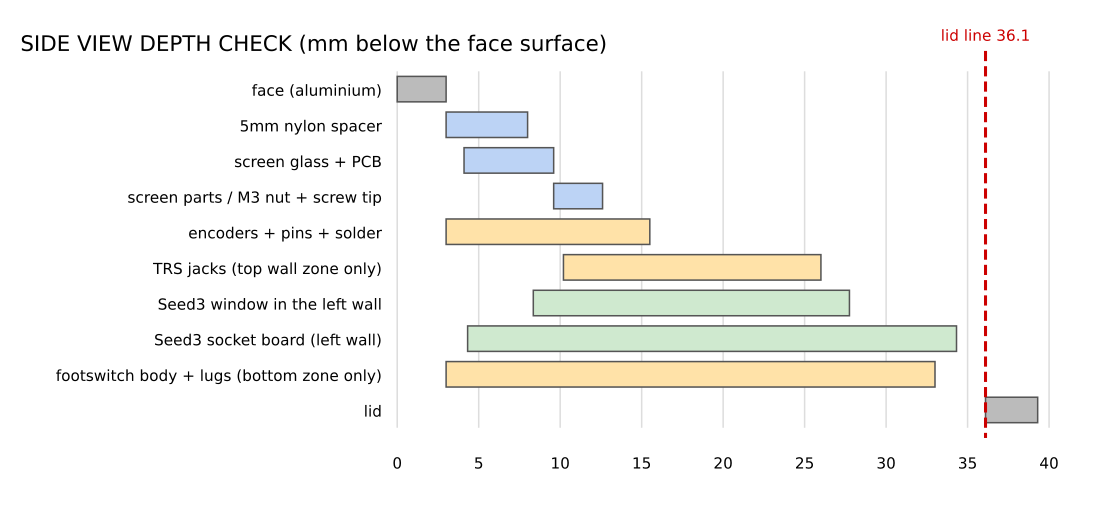
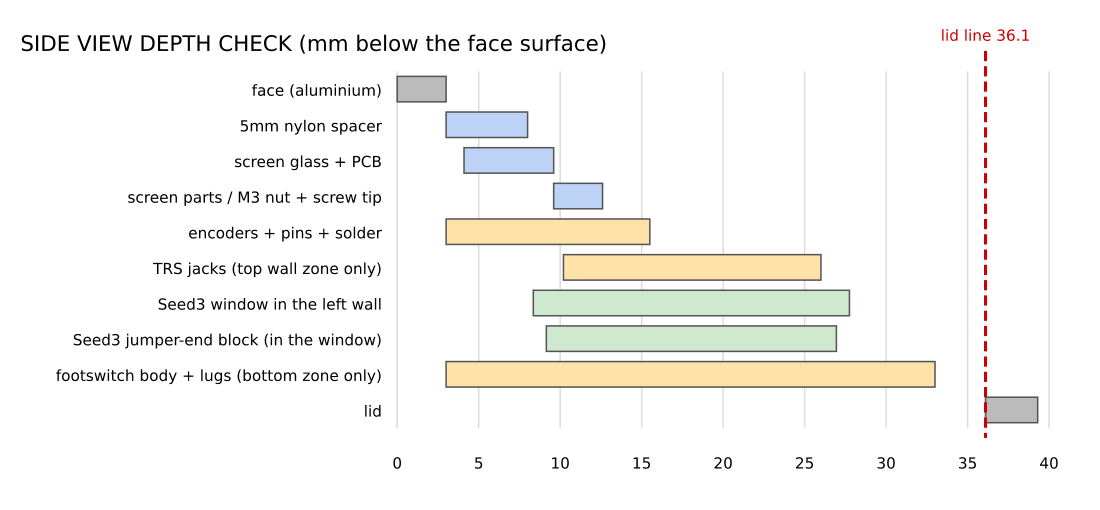
Seed3 socket way 1 in the drawings and 3D model; block is built on the table

Changed region(s): [[0.7418, 0.6176, 0.8964, 0.7059], [0.0618, 0.6471, 0.34, 0.6765], [0.4018, 0.6176, 0.4945, 0.7059]]

diff --git a/_Tools/pg_generate.py b/_Tools/pg_generate.py
@@ -76,13 +76,15 @@ SOCK_OFF = 1.27                        # its centre sits this much toward the li
 SOCK_COLS, SOCK_ROWS = 24, 10          # its hole grid
 
 
+JMP_L = 14.0                           # a jumper wire's female end (plastic shell), long
+
+
 def seed_stack():
-    """Distances outward from the OUTSIDE face of the left wall (negative = inside the box)."""
-    board_front = -(WALL + SOCK_GAP)               # socket board's header side
-    hdr_top = board_front + HDR_H
-    pcb0 = hdr_top + 2.5                           # Seed3's pin spacer sits on the header
-    return dict(board_back=board_front - 1.6, board_front=board_front, hdr_top=hdr_top,
-                pcb0=pcb0, pcb1=pcb0 + 1.6, parts=pcb0 + 1.6 + 3.25)
+    """Distances outward from the OUTSIDE face of the left wall (negative = inside the box).
+    Socket way 1 (built now): the jumper ends, glued into a block in the window, faces level with the outside."""
+    hdr_top = 0.0
+    pcb0 = hdr_top + 2.5                           # Seed3's own black pin spacer sits on the jumper ends
+    return dict(block_back=-JMP_L, hdr_top=hdr_top, pcb0=pcb0, pcb1=pcb0 + 1.6, parts=pcb0 + 1.6 + 3.25)
 
 
 # ---------------------------------------------------------------- drawing model
@@ -526,20 +528,17 @@ def write_interior():
     st = seed_stack()
     ox = -FACE_W / 2                                    # outside of the left wall
     X = lambda d: ox - d                                # distance outward from the wall -> face x
-    y0, y1 = SEED_Y - SOCK_L / 2, SEED_Y + SOCK_L / 2   # socket board
-    p.append(f'<rect x="{X(st["board_front"])}" y="{-y1}" width="1.6" height="{y1-y0}" fill="#4f8f3a" stroke="#000" stroke-width="0.2"/>')
-    p.append(f'<rect x="{X(st["hdr_top"])}" y="{-(SEED_Y+25.4)}" width="{HDR_H}" height="50.8" fill="#222"/>')
+    p.append(f'<rect x="{X(0)}" y="{-(SEED_Y+25.4)}" width="{JMP_L}" height="50.8" fill="#222"/>')    # the glued jumper-end block
     p.append(f'<rect x="{X(st["parts"])}" y="{-(SEED_Y+25.5)}" width="{st["parts"]-st["pcb0"]}" height="51" fill="#333" stroke="#000" stroke-width="0.3"/>')
     p.append(f'<rect x="{X(st["parts"])-1.55}" y="{-(SEED_Y-25.5)}" width="3.25" height="1.6" fill="#bbb"/>')
-    for sy in SEED_SCREWS:
-        p.append(f'<rect x="{X(0)}" y="{-sy-2.75}" width="{WALL+SOCK_GAP}" height="5.5" fill="#eee" stroke="#000" stroke-width="0.2"/>')
-        p.append(f'<rect x="{X(st["board_back"])}" y="{-sy-2.75}" width="2.4" height="5.5" fill="#999"/>')
-    p.append(f'<rect x="{X(st["hdr_top"]+2.5)}" y="{-(SEED_Y+25.5)}" width="2.5" height="51" fill="#555"/>')   # Seed3 pin spacer
-    p.append(f'<rect x="{X(st["board_back"])}" y="{-(SEED_Y+25.4)}" width="14" height="50.8" fill="none" stroke="#1f9d3a" stroke-width="0.3" stroke-dasharray="1 0.8"/>')
-    for k_, (t_, c_) in enumerate([("Seed3", "#235"), ("cartridge", "#235"), ("stands on its", "#235"), ("edge in the", "#235"),
-                                   ("left wall", "#235"), ("", ""), ("green dash:", "#1f6d2a"), ("long header", "#1f6d2a"), ("legs + wires", "#1f6d2a")]):
-        if t_:
-            p.append(text(-44.6, SEED_Y + 12 - k_ * 2.5, t_, 1.8, color=c_))
+    p.append(f'<rect x="{X(st["pcb0"])}" y="{-(SEED_Y+25.5)}" width="2.5" height="51" fill="#555"/>')   # Seed3 pin spacer
+    for sy in SEED_SCREWS:                                                                               # screws + nuts closing the way-2 holes
+        p.append(f'<rect x="{X(0)}" y="{-sy-0.8}" width="{WALL+2.4}" height="1.6" fill="#888"/>')
+        p.append(f'<rect x="{X(-WALL)}" y="{-sy-2.75}" width="2.4" height="5.5" fill="#999"/>')
+    p.append(f'<rect x="{X(-JMP_L)}" y="{-(SEED_Y+25.4)}" width="10" height="50.8" fill="none" stroke="#1f9d3a" stroke-width="0.3" stroke-dasharray="1 0.8"/>')
+    for k_, (t_, c_) in enumerate([("Seed3", "#fff"), ("plugs into", "#fff"), ("40 jumper", "#fff"), ("ends, hot-", "#fff"), ("glued into", "#fff"), ("a block", "#fff")]):
+        p.append(text(X(-JMP_L / 2), SEED_Y + 8 - k_ * 2.5, t_, 1.7, color=c_))
+    p.append(text(X(-JMP_L - 5), SEED_Y + 3, "wires", 1.8, color="#1f6d2a"))
     p.append(text(X(st["parts"]) + 1, SEED_Y - 25.5 - 3.2, "USB-C", 1.9, color="#000"))
     for x, y in SCREWS:
         p.append(f'<circle cx="{x}" cy="{-y}" r="2.6" fill="#fff" stroke="#000" stroke-width="0.4"/><circle cx="{x}" cy="{-y}" r="1.5" fill="#000"/>')
@@ -551,8 +550,8 @@ def write_interior():
         p.append(f'<circle cx="{x}" cy="{-FS_Y}" r="6.6" fill="#ddd" stroke="#555" stroke-width="0.3"/>')
         p.append(text(x, FS_Y - 10, name, 2.4))
     p.append(text(0, -FACE_H / 2 - 5, "INTERIOR TOP VIEW (looking down through the face) - 1:1", 2.6))
-    p.append(text(0, -FACE_H / 2 - 9, "screen: M3x12 screw | face | 5mm spacer | screen PCB | M3 nut.   Seed3: socket board: M3x12 | wall | 5mm spacer | board | nut", 2.2))
-    p.append(text(0, -FACE_H / 2 - 13, "Seed3 pulls straight out of the left wall: keep the green dashed zone behind the socket board free for the wires", 2.2, color="#a00"))
+    p.append(text(0, -FACE_H / 2 - 9, "screen: M3x12 screw | face | 5mm spacer | screen PCB | M3 nut.   Seed3 socket: jumper ends hot-glued in the window", 2.2))
+    p.append(text(0, -FACE_H / 2 - 13, "Seed3 pulls straight out of the left wall: keep the green dashed zone free for the wires. 4 small screws only close the holes (later: way 2 board)", 2.2, color="#a00"))
     W, H = FACE_W + 32, FACE_H + 30
     open(os.path.join(d, "interior-layout.svg"), "w").write(svg_doc(W, H, "\n".join(p), (-W / 2, -FACE_H / 2 - 8, W, H), "#fff"))
 
@@ -566,7 +565,7 @@ DEPTHS = [  # item, from mm, to mm  (0 = outside of the face, 36.1 = open edge w
     ("encoders + pins + solder", 3.0, 15.5),
     ("TRS jacks (top wall zone only)", 10.2, 26.0),
     ("Seed3 window in the left wall", 18.05 - (SEED_WIN[0] + PC) / 2, 18.05 + (SEED_WIN[0] + PC) / 2),
-    ("Seed3 socket board (left wall)", 18.05 + SOCK_OFF - SOCK_W / 2, 18.05 + SOCK_OFF + SOCK_W / 2),
+    ("Seed3 jumper-end block (in the window)", 18.05 - 8.9, 18.05 + 8.9),
     ("footswitch body + lugs (bottom zone only)", 3.0, 33.0),
     ("lid", 36.1, 39.3),
 ]

diff --git a/PG-Pedal-1/10-Carla-Plugin/Source/PedalView.cpp b/PG-Pedal-1/10-Carla-Plugin/Source/PedalView.cpp
@@ -155,27 +155,32 @@ void PedalView::newOpenGLContextCreated()
     meshJackHole.upload (geo::lathe (0.034f, { { 0.0f, 0.0221f }, { 0.0f, 0.0224f } }, 32, true));
     meshDcNut.upload (geo::sweptPolygon (6, 0.075f, { { 0.0f, 0.0f }, { 0.0f, 0.022f } }, true));
     // Seed3 cartridge parts, in the wall's frame (x = 0 is the outside of the left wall, -x = further out).
-    // Stack: socket headers poke 1.2 mm out, the Seed3's pin spacer (2.5), its 1.6 mm PCB, then its parts.
+    // Socket = 2 rows of 20 jumper ends hot-glued into a block in the window, their faces level with the
+    // outside of the wall. Then the Seed3's own black pin spacer (2.5 mm), its 1.6 mm PCB and its parts.
     meshSeedWin.upload (geo::box ({ -0.0045f, -0.097f, -0.262f }, { -0.001f, 0.097f, 0.262f }));
     {
         MeshData hdr;
         for (float ry : { -0.0762f, 0.0762f })
-            hdr.append (geo::box ({ -0.037f, ry - 0.0125f, -0.254f }, { 0.0f, ry + 0.0125f, 0.254f }));
+        {
+            hdr.append (geo::box ({ -0.0015f, ry - 0.0127f, -0.254f }, { 0.0f, ry + 0.0127f, 0.254f }));    // jumper ends' faces
+            hdr.append (geo::box ({ -0.025f, ry - 0.0125f, -0.254f }, { -0.0015f, ry + 0.0125f, 0.254f }));  // Seed3 pin spacer
+        }
         meshSeedHdr.upload (hdr);
     }
-    meshSeedPcb.upload (geo::box ({ -0.053f, -0.09f, -0.255f }, { -0.037f, 0.09f, 0.255f }));
+    meshSeedGlue.upload (geo::box ({ -0.0012f, -0.0635f, -0.258f }, { 0.0f, 0.0635f, 0.258f }));
+    meshSeedPcb.upload (geo::box ({ -0.041f, -0.09f, -0.255f }, { -0.025f, 0.09f, 0.255f }));
     {
         MeshData chips;   // MCU, SDRAM, flash and codec
-        chips.append (geo::box ({ -0.068f, -0.05f, -0.06f }, { -0.053f, 0.05f, 0.04f }));
-        chips.append (geo::box ({ -0.066f, -0.045f, -0.20f }, { -0.053f, 0.045f, -0.09f }));
-        chips.append (geo::box ({ -0.064f, -0.03f, -0.245f }, { -0.053f, 0.03f, -0.21f }));
+        chips.append (geo::box ({ -0.056f, -0.05f, -0.06f }, { -0.041f, 0.05f, 0.04f }));
+        chips.append (geo::box ({ -0.054f, -0.045f, -0.20f }, { -0.041f, 0.045f, -0.09f }));
+        chips.append (geo::box ({ -0.052f, -0.03f, -0.245f }, { -0.041f, 0.03f, -0.21f }));
         meshSeedChips.upload (chips);
     }
-    meshSeedUsb.upload (geo::box ({ -0.0855f, -0.0417f, 0.042f }, { -0.053f, 0.0417f, 0.1155f }));
+    meshSeedUsb.upload (geo::box ({ -0.0735f, -0.0417f, 0.042f }, { -0.041f, 0.0417f, 0.1155f }));
     {
         MeshData btn;     // BOOT and RESET, beside the USB-C end
         for (float by : { -0.065f, 0.065f })
-            btn.append (geo::box ({ -0.068f, by - 0.017f, 0.055f }, { -0.053f, by + 0.017f, 0.095f }));
+            btn.append (geo::box ({ -0.056f, by - 0.017f, 0.055f }, { -0.041f, by + 0.017f, 0.095f }));
         meshSeedBtn.upload (btn);
     }
     meshSideScrew.upload (geo::lathe (0.026f, { { 0.0f, 0.0f }, { 0.0f, 0.016f }, { -0.004f, 0.02f } }, 24, true));
@@ -216,7 +221,7 @@ void PedalView::openGLContextClosing()
         if (p) p->release();
     for (auto* m : { &meshFace, &meshShell, &meshLid, &meshWell, &meshLcd, &meshDesk, &meshShadow, &meshNutSmall, &meshNutBig,
                      &meshThread, &meshPlunger, &meshScrew, &meshJackNut, &meshJackHole, &meshDcNut, &meshSideScrew,
-                     &meshSeedWin, &meshSeedHdr, &meshSeedPcb, &meshSeedChips, &meshSeedUsb, &meshSeedBtn })
+                     &meshSeedWin, &meshSeedHdr, &meshSeedGlue, &meshSeedPcb, &meshSeedChips, &meshSeedUsb, &meshSeedBtn })
         m->release();
     for (auto& k : knobParts)
         k->gpu.release();
@@ -338,6 +343,7 @@ void PedalView::renderOpenGL()
         for (float dy : { -0.1016f, 0.1016f })
             draw (*progPlastic, meshSideScrew, Mat4::translation ({ -W * 0.5f, jackY + dy, z }) * sideCRot, black);
     draw (*progPlastic, meshSeedHdr, seedAt, black);
+    draw (*progPlastic, meshSeedGlue, seedAt, { 0.80f, 0.79f, 0.74f });   // the hot glue between the rows
     draw (*progPlastic, meshSeedPcb, seedAt, { 0.035f, 0.04f, 0.045f });
     draw (*progPlastic, meshSeedChips, seedAt, { 0.06f, 0.06f, 0.065f });
     draw (*progPlastic, meshSeedBtn, seedAt, { 0.75f, 0.75f, 0.74f });

diff --git a/_Tools/tayda_upload.py b/_Tools/tayda_upload.py
@@ -7,7 +7,7 @@
     python3 tayda_upload.py --drill-id 12345                 # update only the drill template
 
 It creates two templates (it does NOT order or pay for anything):
-  * drill template "pg-1"      - 17 holes + 2 rectangles (screen window, Seed3 window) (from tayda-drill-holes.csv)
+  * drill template "pg-1"      - 19 holes + 2 rectangles (screen window, Seed3 window) (from tayda-drill-holes.csv)
   * UV print template "pg-1 top" - side A, colour layer only (pg1-face-uv-print.pdf)
 Then you open the dashboard, check the previews, and create the job/order yourself.
 
@@ -179,7 +179,7 @@ def main():
     uid = res["box_uv_design"]["id"]
     print(f"UV print template saved: https://drill.taydakits.com/box-uv-designs/edit?id={uid}")
     print("\nNext: open https://drill.taydakits.com/dashboard, check both previews "
-          "(the 'out' hole must be above the LEFT half of the face), then create the job/order.")
+          "(the 'in' hole must be above the LEFT half of the face), then create the job/order.")
 
 
 if __name__ == "__main__":

diff --git a/PG-Pedal-1/10-Carla-Plugin/Source/PedalView.h b/PG-Pedal-1/10-Carla-Plugin/Source/PedalView.h
@@ -77,7 +77,7 @@ private:
     hwk::gfx::GpuMesh meshFace, meshShell, meshLid, meshWell, meshLcd, meshDesk, meshShadow,
                       meshNutSmall, meshNutBig, meshThread, meshPlunger, meshScrew, meshJackNut, meshJackHole,
                       meshDcNut, meshSideScrew,
-                      meshSeedWin, meshSeedHdr, meshSeedPcb, meshSeedChips, meshSeedUsb, meshSeedBtn;
+                      meshSeedWin, meshSeedHdr, meshSeedGlue, meshSeedPcb, meshSeedChips, meshSeedUsb, meshSeedBtn;
     std::vector<std::unique_ptr<KnobPart>> knobParts;
     hwk::gfx::Texture2D texPrint, texLcd;
     std::vector<juce::uint8> lcdRgba;

diff --git a/PG-Pedal-1/05-Wiring-and-Schematics/WIRING.md b/PG-Pedal-1/05-Wiring-and-Schematics/WIRING.md
@@ -26,19 +26,24 @@ The female end of every jumper wire is a small plastic shell exactly 2.54 mm wid
          ┃      |
 ```
 
-1. Snip pin 1 off the Seed3 (the key, see below).
-2. Lay the pedal on its right side. From outside, push the Seed3 halfway into the window (USB-C toward the footswitches) and hold it there with tape.
-3. From inside, push one jumper end onto **every** Seed3 pin, in pin order, using `seed-socket-board.png` for the positions.
-   All 40 places get a jumper, even unused pins (those jumpers are your spare / expansion wires: just coil them up, their ends are already insulated).
-   In place 1 (the snipped pin) push an empty jumper end and fill it with a dab of hot glue: that's the key.
-4. Slide the whole thing so the front faces of the jumper ends are level with the outside of the wall.
-5. Warm the wall around the window with a hair dryer (cold aluminium makes hot glue let go), then hot-glue: between the two rows, along all four sides of the block
-   where it touches the window edge, and a bead over the block's back edge onto the inside of the wall. Let it cool for 10 minutes before you touch it.
-6. Pull the Seed3 straight out: the block stays in the wall. Then each jumper's other end goes to its part (wire list below):
-   cut and soldered on the part's big lug, or plugged straight onto the screen's pins.
-7. Label each wire near the block (tape flag with the pin number) so you can always trace it.
-   Doing it a few at a time works well: push 3 jumper ends on, tack them with a little glue, wire up their other ends, test, then the next 3.
-   Keep the Seed3 plugged in the whole time (it holds the spacing exact), keep glue on the backs and sides of the shells only, and finish with one full glue pass over the whole block.
+**Build the block on the table, not inside the box** (so the glue gun never has to reach into anything):
+
+1. (Optional key) snip pin 1 off the Seed3, see "Key it" below.
+2. Lay the Seed3 on a soft cloth, parts side down, pins up.
+3. Push a jumper end onto **every** pin, using `seed-socket-board.png` for the places. All 40 get one, even unused pins
+   (those are your spare / expansion wires: coil them up, their ends are already insulated). If you keyed it, fill the place-1 jumper end with a dab of glue.
+   A few at a time works well: push 3 on, label each wire with a tape flag (its pin number), tack them to their neighbours with a small dab of glue, then the next 3.
+   Keep glue on the **backs and sides** of the plastic ends only, never in the front where the pins go.
+4. When all 40 are on, do one full pass: a line of glue in the gap between the two rows and along the outside of each row, so it's one solid block. Let it cool 10 minutes.
+5. Pull the Seed3 off. You now have a 2 x 20 socket block with 40 labelled wires.
+6. Fit it: take the lid off the pedal and lay it face down: the inside is an open tray, so the left wall is right in front of you.
+   Push the block into the window **from inside** (wires trailing into the box) until its front is level with the outside of the wall.
+   Plug the Seed3 in from outside to check it lines up, and leave it in.
+7. Warm the wall around the window with a hair dryer (cold aluminium makes hot glue let go), then run one bead all the way around where the block meets the
+   **inside** of the wall. The nozzle only has to touch the wall from the open back: nothing to thread. That bead overlaps the wall like a lip, so pulling a Seed3 out can't pull the block with it.
+   Extra solid (optional): a thin bead around the outside edge of the window too, then the wall is clamped from both sides.
+8. Then wire each jumper's other end to its part (wire list below): cut and soldered on the part's big lug, or plugged straight onto the screen's pins.
+   Tip: fit the block before the screen and the pg-1 knob go in, for more elbow room.
 
 Swapping later: unplug 9 V and USB, pull straight out, push the new one in until it stops. If the block ever loosens, re-glue it the same way.
 The 4 screw holes around the window are for way 2. Until then, put the 4 M3 screws in with their nuts so the holes are closed.

diff --git a/PG-Pedal-1/03-Drill-Template/DRILL-ORDER.md b/PG-Pedal-1/03-Drill-Template/DRILL-ORDER.md
@@ -1,6 +1,6 @@
 # Ordering the drilled enclosure (drill.taydakits.com)
 
-**Easiest:** `python3 _Tools/tayda_upload.py --drill-id 12345 --uv-id YOUR_UV_ID`
+**Easiest:** `python3 _Tools/tayda_upload.py --drill-id 12345 --uv-id 34248`
 updates your existing templates. By hand, type these in (mm from the **center of each side**, +X right, +Y up).
 Diameters **already include Tayda's +0.4 mm powder-coat allowance**.
 
